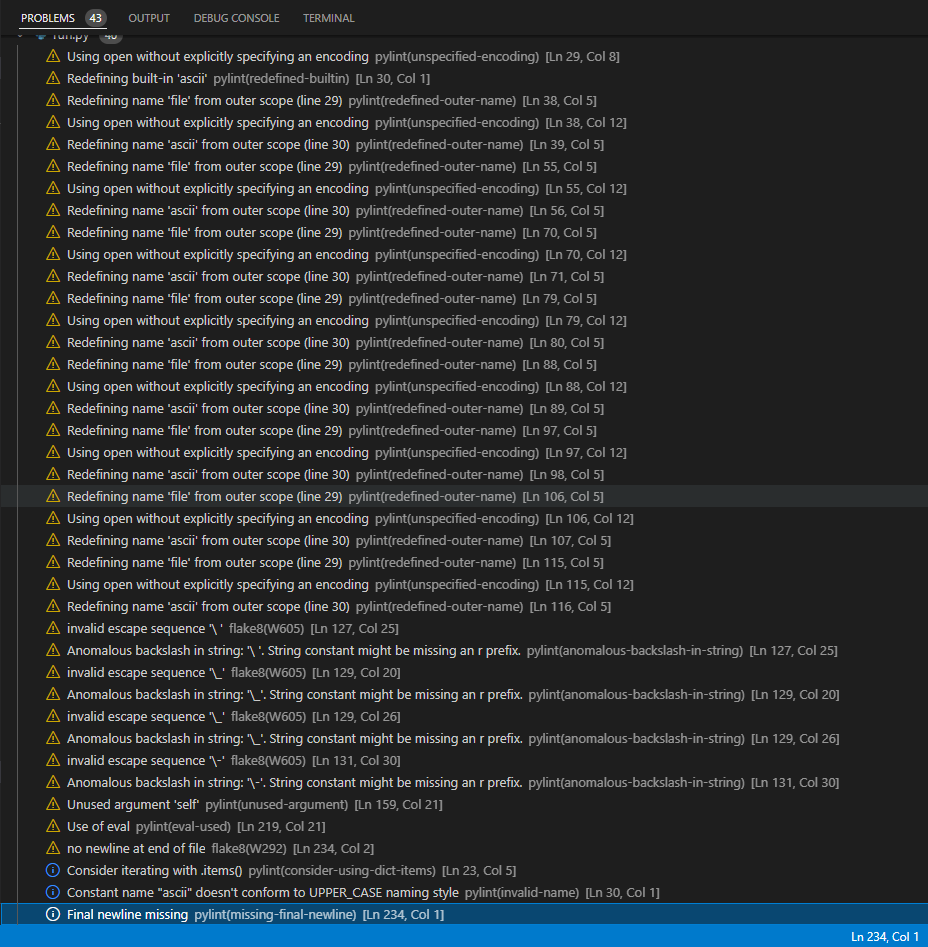
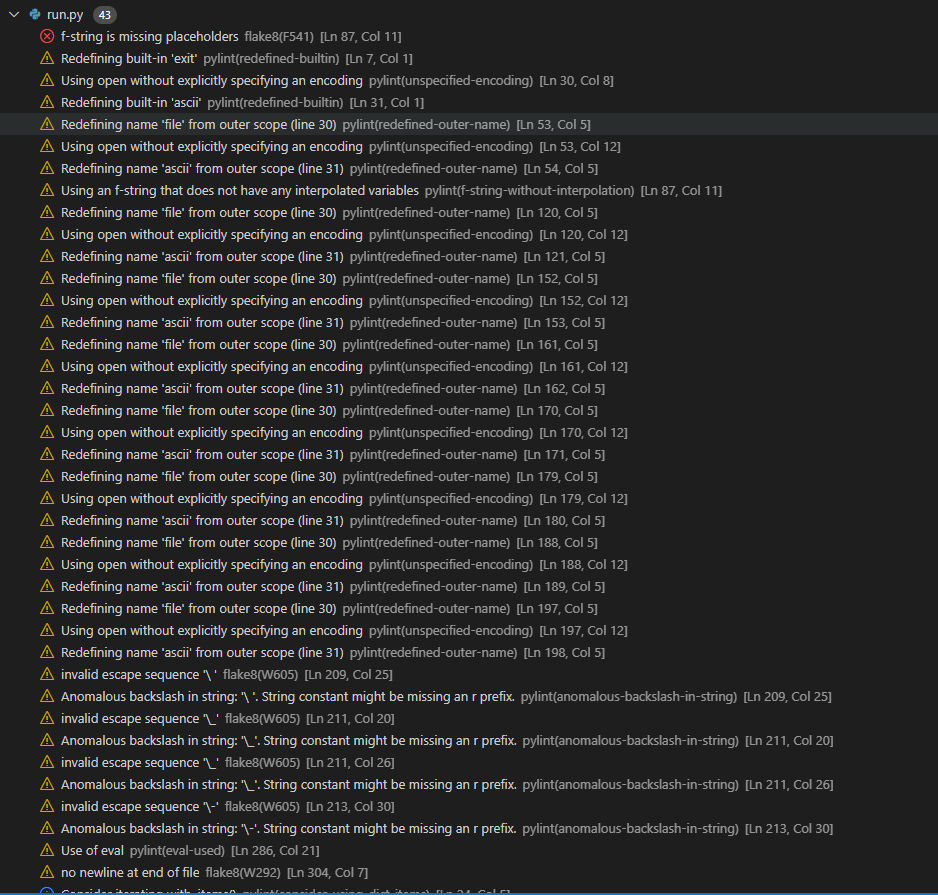
Update screenshots of problems and PEP8 check for README.md

Changed region(s): [[0.0, 0.0, 1.0, 1.0]]

diff --git a/README.md b/README.md
@@ -137,9 +137,12 @@ Python code was passed through the [PEP8 online](http://pep8online.com/) code ch
 
 ## Unsolved bugs and problems
 
-* I currently have 40 problems with my code as detailed in the screenshot below.
+* I currently have 43 problems with my code as detailed in the screenshot below.
 
 ![code problems](docs/images/problems.png)
+
+
+![code problems](docs/images/problems2.png)
 
 
 ---
